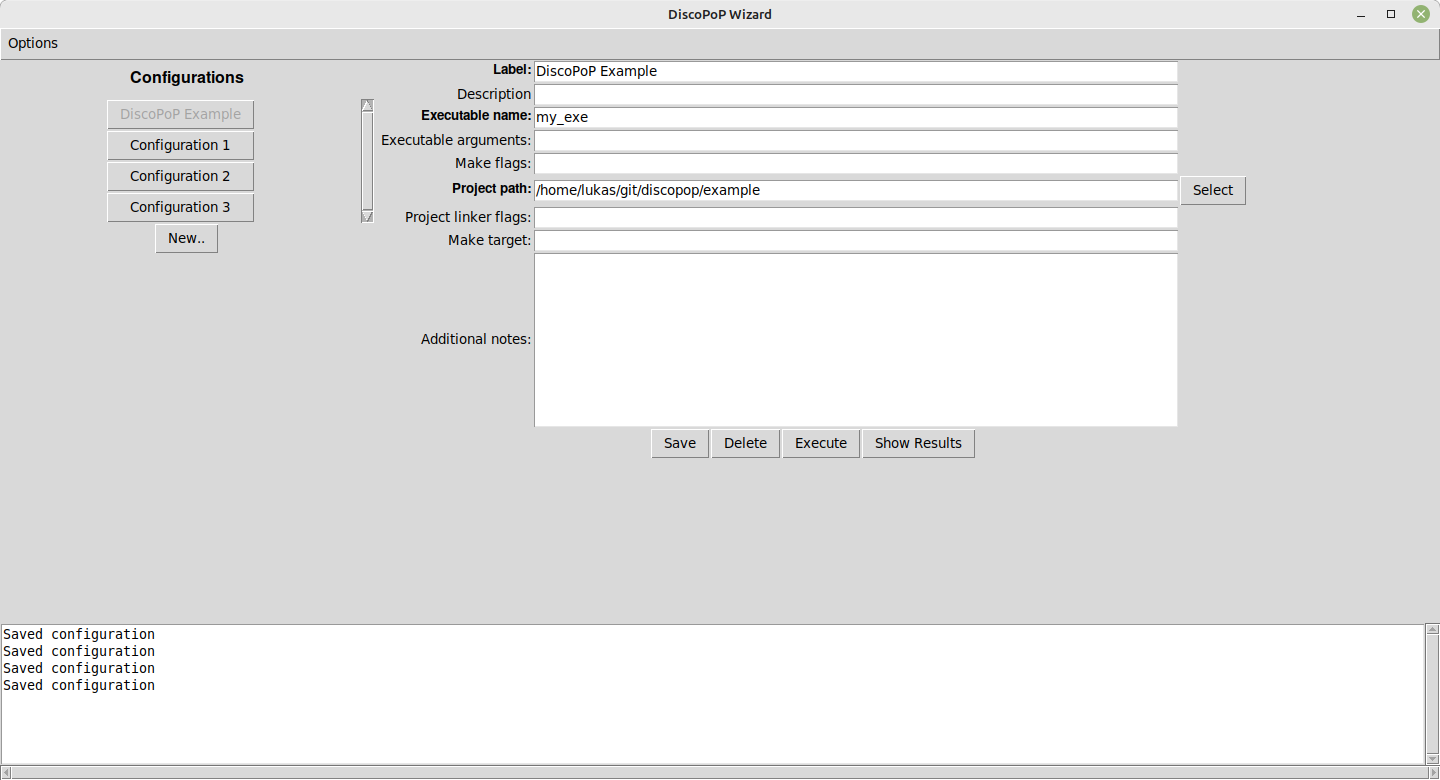
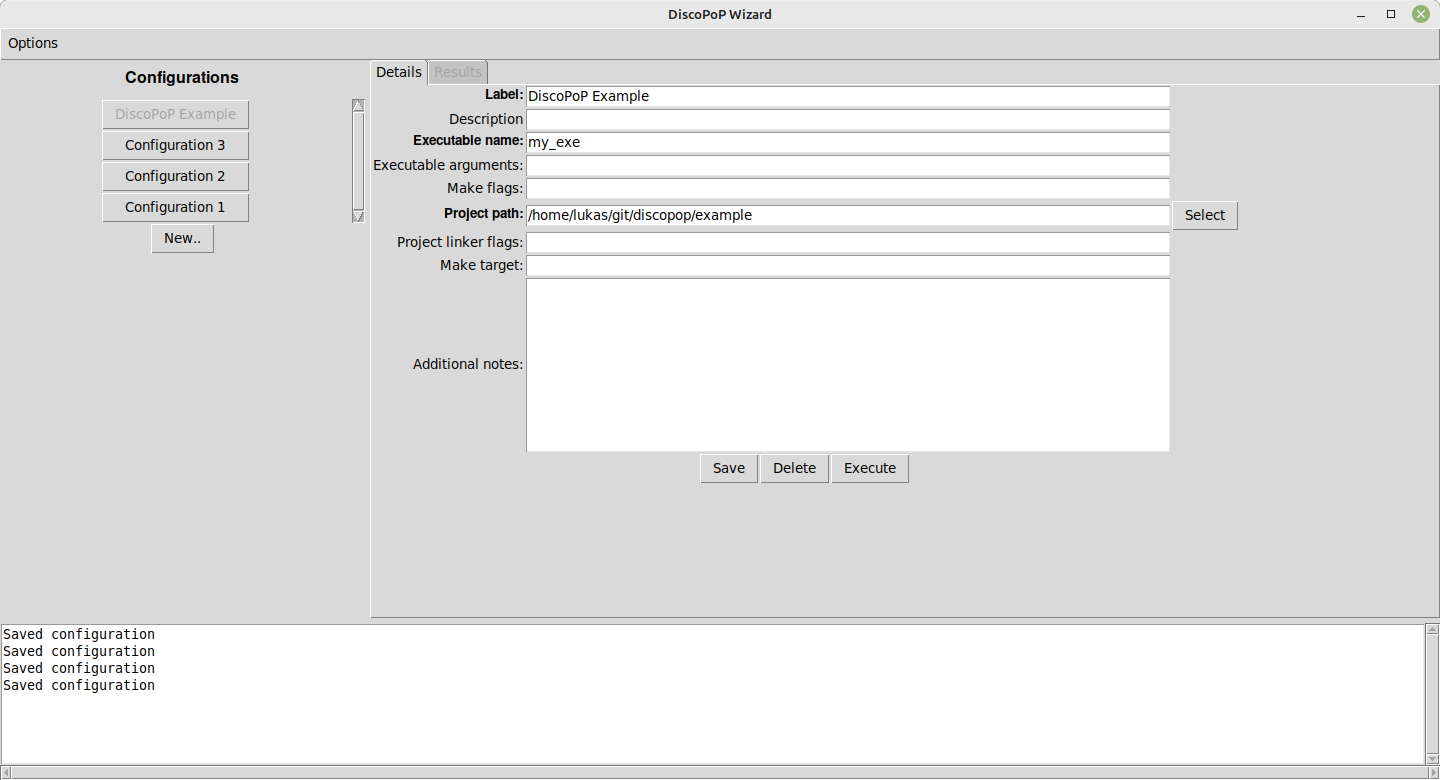
feature: add tabbed view for configuration settings and results
fixes #248

Changed region(s): [[0.25, 0.0615, 0.875, 0.6154], [0.0625, 0.0923, 0.1875, 0.3077]]

diff --git a/discopop_wizard/classes/ExecutionConfiguration.py b/discopop_wizard/classes/ExecutionConfiguration.py
@@ -12,6 +12,7 @@ import string
 import tkinter as tk
 from json import JSONDecodeError
 from tkinter import filedialog
+from tkinter import ttk
 from typing import TextIO, List
 
 from discopop_wizard.screens.execution import ExecutionView
@@ -42,7 +43,7 @@ class ExecutionConfiguration(object):
 
     def get_as_button(self, wizard, main_screen_obj, parent_frame: tk.Frame, all_buttons: List[tk.Button]) -> tk.Button:
         button = tk.Button(parent_frame, text=self.label)
-        button.config(command=lambda: self.highlight_and_show_details_screen(wizard, main_screen_obj, button, all_buttons))
+        button.config(command=lambda: self.highlight_and_update_notebook_screens(wizard, main_screen_obj, button, all_buttons))
         self.button = button
         return button
 
@@ -135,7 +136,7 @@ class ExecutionConfiguration(object):
         script_str += command
         return script_str
 
-    def highlight_and_show_details_screen(self, wizard, main_screen_obj, pressed_button: tk.Button, all_buttons: List[tk.Button]):
+    def highlight_and_update_notebook_screens(self, wizard, main_screen_obj, pressed_button: tk.Button, all_buttons: List[tk.Button]):
         # remove previous highlights
         for configuration_button in all_buttons:
             configuration_button.configure(state=tk.NORMAL)
@@ -143,8 +144,13 @@ class ExecutionConfiguration(object):
         # highlight pressed configuration button
         pressed_button.configure(state=tk.DISABLED)
 
-        # show details screen of pressed configuration button
+        # update details screen of pressed configuration button
         self.show_details_screen(wizard, main_screen_obj)
+
+        # update results screen of pressed configuration button and set results tab state based on result existence
+        main_screen_obj.notebook.tab(main_screen_obj.results_frame, state=self.__button_state_from_result_existence())
+        if self.__button_state_from_result_existence() == "normal":
+            show_suggestions_overview_screen(wizard, main_screen_obj.results_frame, self)
 
     def show_details_screen(self, wizard, main_screen_obj) -> tk.Frame:
         # delete previous frame contents
@@ -254,13 +260,6 @@ class ExecutionConfiguration(object):
                                                                               additional_notes))
         execute_button.grid(row=1, column=3)
 
-        results_button = tk.Button(button_canvas, text="Show Results",
-                                   state=self.__button_state_from_result_existence(),
-                                   command=lambda: show_suggestions_overview_screen(wizard,
-                                                                                    main_screen_obj.details_frame,
-                                                                                    self))
-        results_button.grid(row=1, column=4)
-
     def __button_state_from_result_existence(self) -> str:
         # check if suggestions can be loaded. If so, enable the button.
         # Else, disable it.
@@ -327,5 +326,9 @@ class ExecutionConfiguration(object):
                           project_path, project_linker_flags, make_target,
                           additional_notes, rebuild_configurations_frame=False)
 
-        # create execution view
-        ExecutionView(self, wizard, main_screen_obj.details_frame)
+        # create execution view and update results frame
+        ExecutionView(self, wizard, main_screen_obj.results_frame)
+        # set results tab state based on result existence
+        main_screen_obj.notebook.tab(main_screen_obj.results_frame, state=self.__button_state_from_result_existence())
+        # show results tab
+        main_screen_obj.notebook.select(main_screen_obj.results_frame)

diff --git a/discopop_wizard/screens/main.py b/discopop_wizard/screens/main.py
@@ -17,7 +17,9 @@ from discopop_wizard.screens.settings import show_settings_screen
 
 class MainScreen(object):
     configuration_frame: tk.Frame
+    notebook: ttk.Notebook
     details_frame: tk.Frame
+    results_frame: tk.Frame
 
     def __init__(self, wizard, window_frame: tk.Frame):
         self.wizard = wizard
@@ -32,8 +34,13 @@ class MainScreen(object):
         horizontal_paned_window.pack(fill=tk.BOTH, expand=True)
         self.configuration_frame = tk.Frame(horizontal_paned_window)
         horizontal_paned_window.add(self.configuration_frame, weight=1)
-        self.details_frame = tk.Frame(horizontal_paned_window)
-        horizontal_paned_window.add(self.details_frame, weight=5)
+        self.notebook = ttk.Notebook(horizontal_paned_window)
+        horizontal_paned_window.add(self.notebook, weight=5)
+
+        self.details_frame = tk.Frame(self.notebook)
+        self.results_frame = tk.Frame(self.notebook)
+        self.notebook.add(self.details_frame, text="Details")
+        self.notebook.add(self.results_frame, text="Results")
 
         self.build_configurations_frame(wizard)
 

diff --git a/discopop_wizard/classes/ProfilingContainer.py b/discopop_wizard/classes/ProfilingContainer.py
@@ -10,6 +10,7 @@ import glob
 import os
 import pathlib
 import subprocess
+import tkinter
 
 
 class ProfilingContainer(object):
@@ -113,7 +114,11 @@ class ProfilingContainer(object):
             for line in p.stdout:
                 line = line.replace("\n", "")
                 print(line)
-                self.wizard.console.print(line)
+                try:
+                    self.wizard.console.print(line)
+                except tkinter.TclError:
+                    # happens when container is still shutting down but interface already closed.
+                    pass
         if p.returncode != 0:
             print("An error occurred during the execution!")  # Error message
             self.wizard.console.print("An error occurred during the execution!")

diff --git a/docs/Tutorials/Configuration_Wizard.md b/docs/Tutorials/Configuration_Wizard.md
@@ -60,7 +60,7 @@ In the background, a command to call the [Execution Wizard](Execution_Wizard.md)
 ## Results
 As of right now, the created [parallelization suggestions](../Pattern_Detection/Patterns) will be printed to a file named `patterns.txt` in the project folder.
 This is not an ideal solution and will be improved in the future.
-The DiscoPoP Wizard provides a simple overview of the identified suggestions. The respective view can be opened using the `Show Results` button of a configuration on the main screen and will be opened automatically after a execution has finished.
+The DiscoPoP Wizard provides a simple overview of the identified suggestions. The respective view can be opened by clicking on the `Results` tab of a configuration on the main screen and will be opened automatically after an execution has finished.
 The identified parallelization suggestions are shown via buttons in the middle column of the screen and allow to open a code preview, which highlights the target code section and shows the suggested OpenMP pragma.
 All details regarding the suggestion can be made visible by hovering over the respective buttons.
 An example for this view can be found in the following figure:
